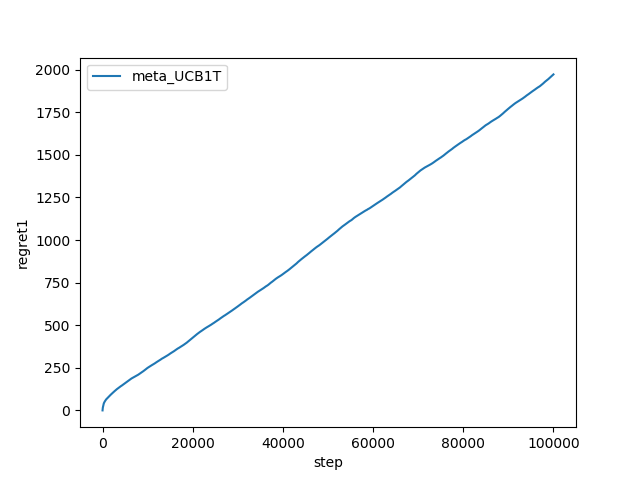
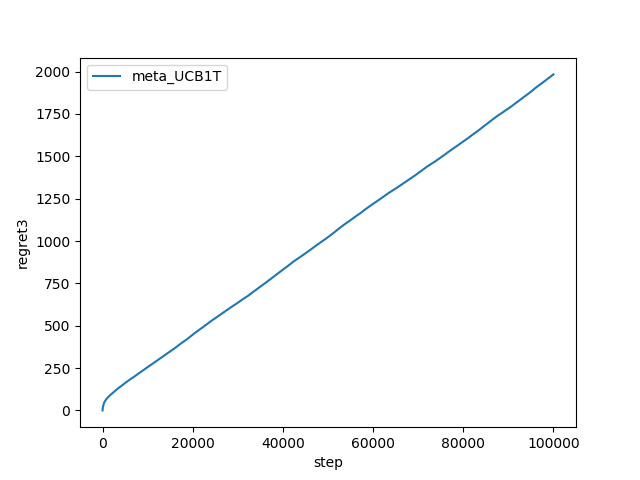
no message

diff --git a/parallel_simulation.py b/parallel_simulation.py
@@ -78,10 +78,10 @@ step_num = 100000
 k = 20
 agent_num = 1
 environment_type = "unsteady"
-change_type = "constant"
+change_type = "constan"
 labels = ["meta_UCB1T"]
 # labels = ["500", "750", "1000", "1250", "1500"]
-graph_titles = ["accuracy2", "regret2", "replacement_rate2"]
+graph_titles = ["accuracy3", "regret3", "replacement_rate3"]
 
 start = time()
 
